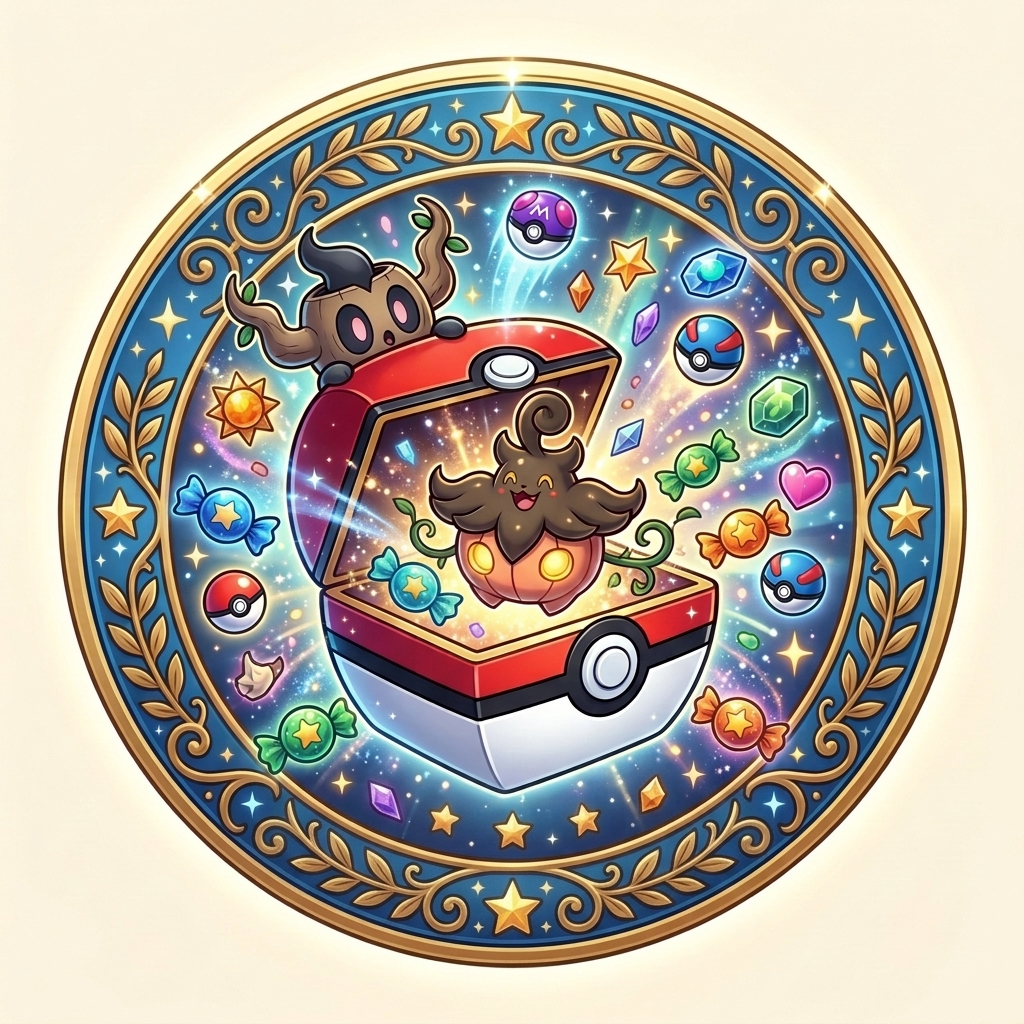
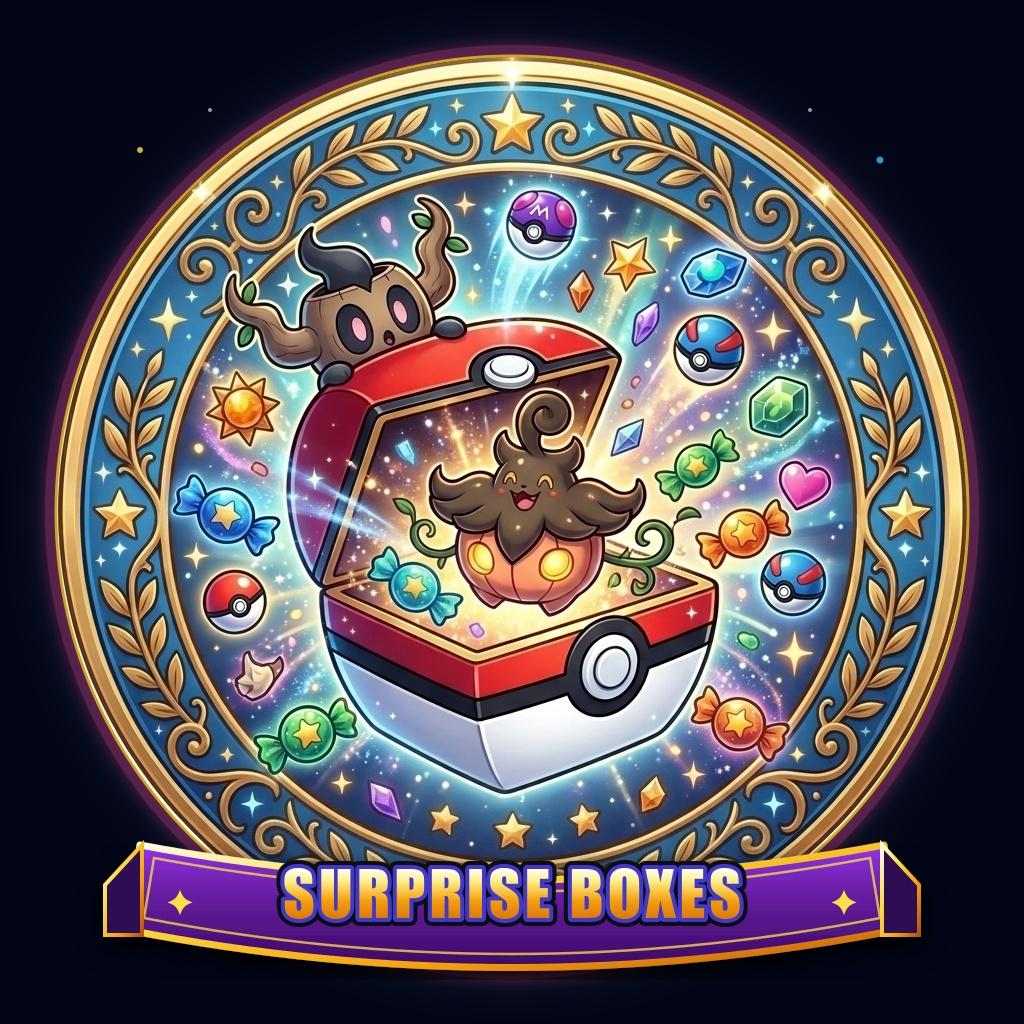
fix(arcade): fix halo cropping, add titles to Find Me & Surprise Boxes, remove white backgrounds

diff --git a/public/pokeayman/workspace-refresh.css b/public/pokeayman/workspace-refresh.css
@@ -237,14 +237,14 @@ html body:is(body, #pk-refresh):is(body, #pk-refresh):is(body, #pk-refresh) {
   & .vocab-list-card .vocab-card-mode { background: var(--ui-gold) !important; color: var(--ui-on-gold) !important; font-weight: 800; }
   & .vocab-list-card .vocab-card-delete { color: var(--ui-red) !important; }
   & :is(#games-options-container,#student-games-options-container) > .ga-hub { background: transparent !important; padding: 0 !important; border: 0 !important; box-shadow: none !important; }
-  & .ga-grid { display: grid !important; grid-template-columns: repeat(auto-fill, minmax(min(100%, 220px), 1fr)) !important; gap: 24px 18px !important; justify-items: center !important; align-items: start !important; }
-  & .ga-cart { display: flex !important; flex-direction: column !important; align-items: center !important; text-align: center !important; padding: 6px !important; min-height: 0 !important; background: transparent !important; border: none !important; border-radius: 0 !important; box-shadow: none !important; color: var(--ui-ink) !important; transform: none !important; width: 100% !important; max-width: 230px !important; margin: 0 auto !important; cursor: pointer !important; }
+  & .ga-grid { display: grid !important; grid-template-columns: repeat(auto-fill, minmax(min(100%, 220px), 1fr)) !important; gap: 28px 22px !important; justify-items: center !important; align-items: start !important; overflow: visible !important; }
+  & .ga-cart { position: relative !important; overflow: visible !important; z-index: 1 !important; display: flex !important; flex-direction: column !important; align-items: center !important; text-align: center !important; padding: 6px !important; min-height: 0 !important; background: transparent !important; border: none !important; border-radius: 0 !important; box-shadow: none !important; color: var(--ui-ink) !important; transform: none !important; width: 100% !important; max-width: 230px !important; margin: 0 auto !important; cursor: pointer !important; }
   & .ga-cart::before, & .ga-cart::after { display: none !important; }
-  & .ga-cart:hover { border: none !important; box-shadow: none !important; background: transparent !important; }
+  & .ga-cart:hover, & .ga-cart:focus-visible { border: none !important; box-shadow: none !important; background: transparent !important; z-index: 30 !important; }
   
   /* Rounded Card shaped like the logo */
-  & .ga-cart > .ga-cart-art, & .ga-cart .ga-cart-disc { position: relative !important; width: 148px !important; height: 148px !important; aspect-ratio: 1 / 1 !important; margin: 0 auto !important; border-radius: 50% !important; overflow: hidden !important; border: 3.5px solid color-mix(in srgb, var(--a, #ffcb05) 75%, white 25%) !important; box-shadow: 0 8px 24px -4px rgba(0,0,0,.45), 0 0 16px -2px color-mix(in srgb, var(--a, #ffcb05) 30%, transparent) !important; background: radial-gradient(circle, color-mix(in srgb, var(--a, #ffcb05) 22%, var(--ui-surface)), var(--ui-surface) 72%) !important; color: var(--ui-ink) !important; padding: 0 !important; transition: transform .25s cubic-bezier(0.34, 1.56, 0.64, 1), box-shadow .25s ease, border-color .25s ease !important; }
-  & .ga-cart:hover :is(.ga-cart-art, .ga-cart-disc), & .ga-cart:focus-visible :is(.ga-cart-art, .ga-cart-disc) { transform: translateY(-5px) scale(1.05) !important; border-color: #ffffff !important; box-shadow: 0 16px 36px -4px rgba(0,0,0,.6), 0 0 28px color-mix(in srgb, var(--a, #ffcb05) 60%, transparent) !important; }
+  & .ga-cart > .ga-cart-art, & .ga-cart .ga-cart-disc { position: relative !important; z-index: 2 !important; width: 148px !important; height: 148px !important; aspect-ratio: 1 / 1 !important; margin: 0 auto !important; border-radius: 50% !important; overflow: hidden !important; border: 3.5px solid color-mix(in srgb, var(--a, #ffcb05) 75%, white 25%) !important; box-shadow: 0 8px 24px -4px rgba(0,0,0,.45), 0 0 18px 0px color-mix(in srgb, var(--a, #ffcb05) 45%, transparent) !important; background: radial-gradient(circle, color-mix(in srgb, var(--a, #ffcb05) 22%, var(--ui-surface)), var(--ui-surface) 72%) !important; color: var(--ui-ink) !important; padding: 0 !important; transition: transform .25s cubic-bezier(0.34, 1.56, 0.64, 1), box-shadow .25s ease, border-color .25s ease !important; }
+  & .ga-cart:hover :is(.ga-cart-art, .ga-cart-disc), & .ga-cart:focus-visible :is(.ga-cart-art, .ga-cart-disc) { transform: translateY(-5px) scale(1.05) !important; border-color: #ffffff !important; box-shadow: 0 16px 36px -4px rgba(0,0,0,.6), 0 0 30px 4px color-mix(in srgb, var(--a, #ffcb05) 75%, transparent) !important; z-index: 25 !important; }
   & .ga-cart-art::after, & .ga-cart-disc::after { display: none !important; }
   & .ga-cart-img { width: 100% !important; height: 100% !important; object-fit: cover !important; border-radius: 50% !important; display: block !important; transition: transform .25s ease !important; }
   & .ga-cart:hover .ga-cart-img { transform: scale(1.08) !important; }

diff --git a/public/pokeayman/games-arcade.css b/public/pokeayman/games-arcade.css
@@ -16,21 +16,21 @@
 .ga-listen-quickplay:focus-visible { outline:3px solid var(--ga-yellow); outline-offset:3px; }
 @media(prefers-reduced-motion:reduce) { .ga-listen-quickplay { transition:none; } .ga-listen-quickplay:hover { transform:none; } }
 
-.ga-cart { --a: #ffcb05; position: relative; display: flex; flex-direction: column; align-items: center; text-align: center; border-radius: 0; overflow: visible; cursor: pointer;
+.ga-cart { --a: #ffcb05; position: relative; z-index: 1; display: flex; flex-direction: column; align-items: center; text-align: center; border-radius: 0; overflow: visible; cursor: pointer;
   background: transparent; border: none; color: var(--ga-ink); width: 100%; max-width: 230px; margin: 0 auto;
   transition: transform .18s ease; }
-.ga-cart:focus-visible { outline: 3px solid var(--ga-yellow); outline-offset: 3px; }
+.ga-cart:hover, .ga-cart:focus-visible { outline: none; z-index: 30; }
 .ga-pink { --a: #ff6fb5; } .ga-red { --a: #ff5a5f; } .ga-violet { --a: #a78bfa; } .ga-blue { --a: #4fa3ff; } .ga-yellow { --a: #ffcb05; } .ga-mint { --a: #34d399; }
 
 /* Rounded Card shaped like the logo */
-.ga-cart-disc, .ga-cart-art { position: relative; width: 148px; height: 148px; aspect-ratio: 1; border-radius: 50%; overflow: hidden; margin: 0 auto;
+.ga-cart-disc, .ga-cart-art { position: relative; z-index: 2; width: 148px; height: 148px; aspect-ratio: 1; border-radius: 50%; overflow: hidden; margin: 0 auto;
   background: radial-gradient(circle, color-mix(in srgb, var(--a) 25%, var(--ga-surface)), var(--ga-surface) 72%);
   border: 3.5px solid color-mix(in srgb, var(--a) 75%, white 25%);
-  box-shadow: 0 8px 24px -4px rgba(0,0,0,.45), 0 0 16px -2px color-mix(in srgb, var(--a) 30%, transparent);
+  box-shadow: 0 8px 24px -4px rgba(0,0,0,.45), 0 0 18px 0px color-mix(in srgb, var(--a) 45%, transparent);
   display: grid; place-items: center; transition: transform .25s cubic-bezier(0.34, 1.56, 0.64, 1), box-shadow .25s ease, border-color .25s ease; }
 .ga-cart:hover :is(.ga-cart-disc, .ga-cart-art), .ga-cart:focus-visible :is(.ga-cart-disc, .ga-cart-art) {
   transform: translateY(-5px) scale(1.05); border-color: #ffffff;
-  box-shadow: 0 16px 36px -4px rgba(0,0,0,.6), 0 0 28px color-mix(in srgb, var(--a) 60%, transparent); }
+  box-shadow: 0 16px 36px -4px rgba(0,0,0,.6), 0 0 30px 4px color-mix(in srgb, var(--a) 75%, transparent); z-index: 25; }
 .ga-cart-art::after, .ga-cart-disc::after { display: none !important; }
 .ga-cart-img { width: 100% !important; height: 100% !important; object-fit: cover !important; border-radius: 50% !important; display: block !important; transition: transform .25s ease !important; }
 .ga-cart:hover .ga-cart-img { transform: scale(1.08) !important; }
